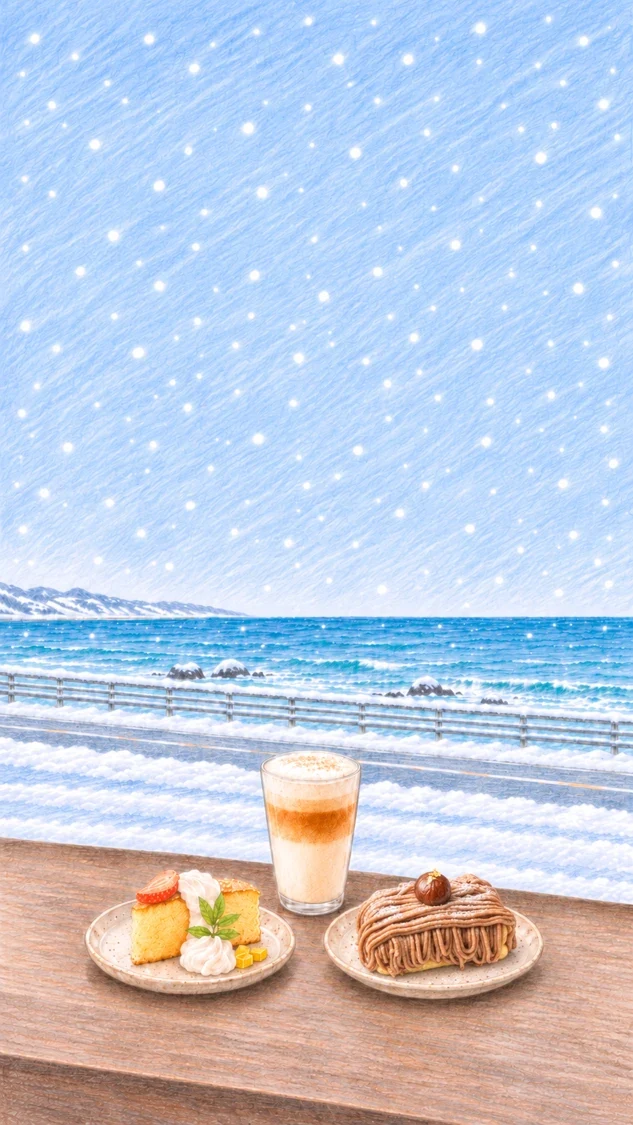
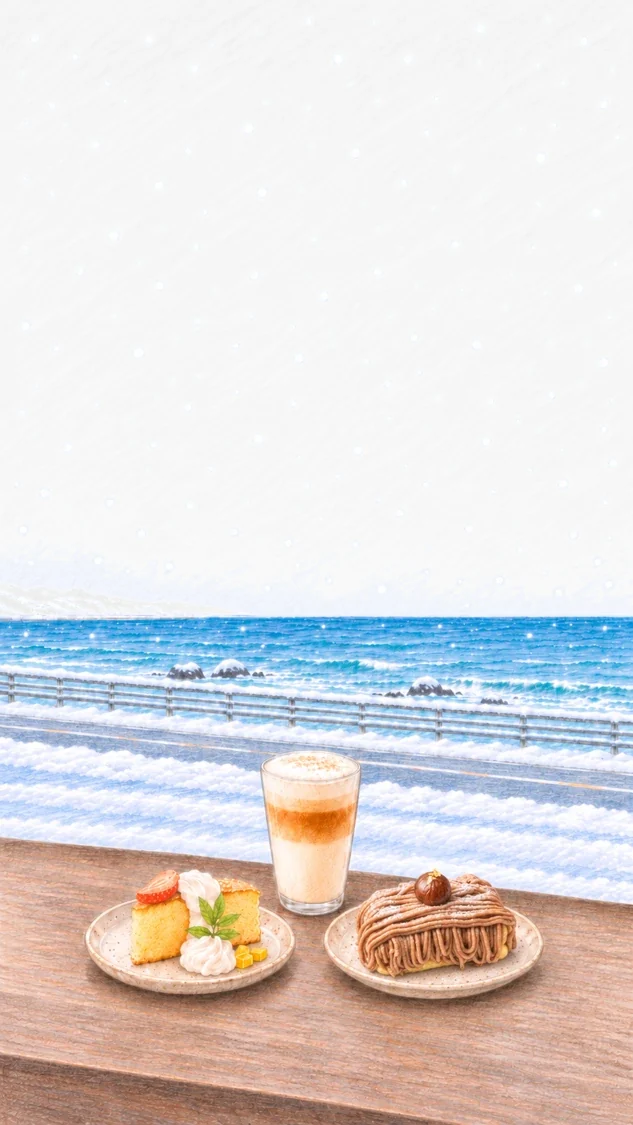
style: 想吃清單 background with a white sky, snow in pale blue

diff --git a/src/assets/pages/_wishlist.scss b/src/assets/pages/_wishlist.scss
@@ -9,7 +9,7 @@
   opacity: .25;
   pointer-events: none;
   container-type: size;
-  background: #b9cdee;
+  background: #fff;
 }
 // Covers the whole screen like background-size: cover, kept to the bottom so
 // the table always shows. A landscape screen shows the wide picture, a
@@ -37,7 +37,7 @@
   position: absolute;
   top: -8px;
   border-radius: 50%;
-  background: #fff;
+  background: #c3d5e6; // pale snow blue, to show against the white sky
   box-shadow: 0 0 2px rgba(120, 150, 190, .6);
   animation: wishlist-snow-fall 8s linear infinite, wishlist-snow-sway 2.6s ease-in-out infinite alternate;
 }
